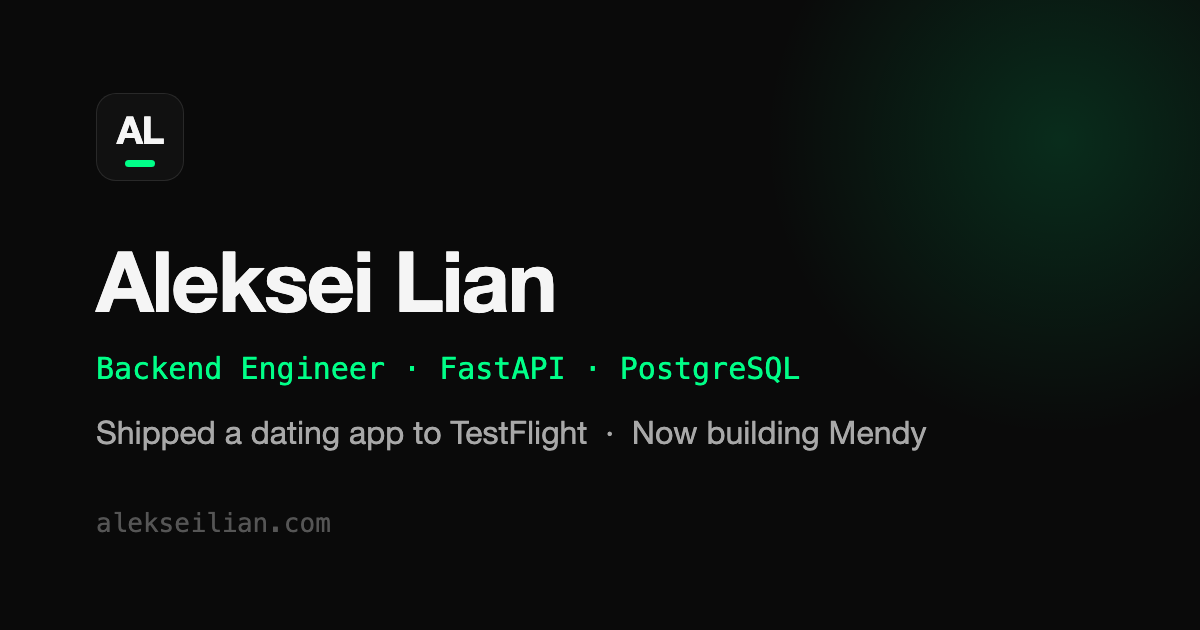
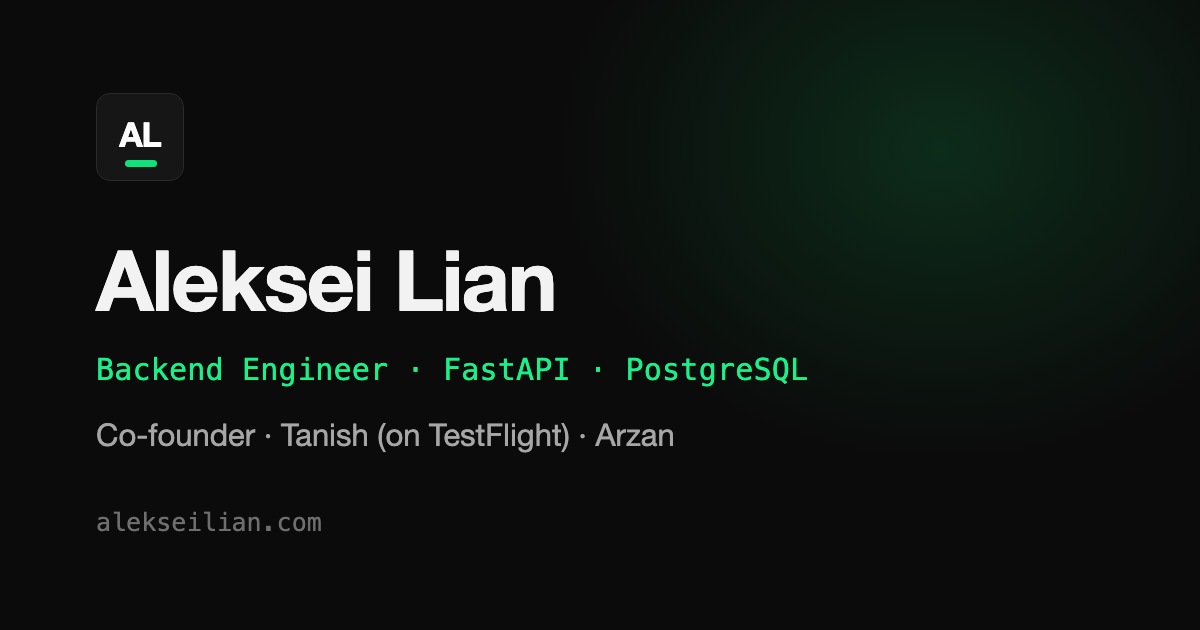
refresh link preview, tagline and meta; tone down tanish migration claim; update resume

diff --git a/public/tanish.html b/public/tanish.html
@@ -156,7 +156,7 @@
       <h2><span class="n">02</span>Architecture</h2>
       <div class="card stack">
         <b>API</b> — FastAPI, async SQLAlchemy 2.0, Pydantic v2; web + background worker<br />
-        <b>Data</b> — PostgreSQL, Alembic migrations gated before deploy; Redis for rate limiting &amp; caching<br />
+        <b>Data</b> — PostgreSQL with Alembic migrations applied before each release; Redis for rate limiting &amp; caching<br />
         <b>Realtime</b> — WebSocket chat with push-notification fallback<br />
         <b>Mobile</b> — React Native (Expo) iOS app, EAS builds to TestFlight<br />
         <b>Media</b> — S3-compatible object storage, presigned upload/download, moderation pipeline<br />
@@ -240,7 +240,7 @@
       <h2><span class="n">08</span>Discipline</h2>
       <ul>
         <li>2,300+ backend and 800+ frontend tests; CI runs both on every PR.</li>
-        <li>Migrations run in a gated release step before new code serves traffic.</li>
+        <li>Alembic migrations are applied before each release, and a pre-deploy hook is committed for Git-triggered deploys.</li>
         <li>Every substantial change went through security review before merge; auth changes always.</li>
       </ul>
 

diff --git a/index.html b/index.html
@@ -12,7 +12,7 @@
       rel="stylesheet"
     />
     <title>Aleksei Lian | Portfolio</title>
-    <meta name="description" content="Aleksei Lian — CS student and backend engineer. Co-founder of Tanish. Python, FastAPI, PostgreSQL, Docker, GCP." />
+    <meta name="description" content="Aleksei Lian — CS student and backend engineer. Co-founder and lead engineer of Tanish and Arzan. Python, FastAPI, PostgreSQL, TypeScript." />
     <meta property="og:title" content="Aleksei Lian | Portfolio" />
     <meta property="og:description" content="CS student and backend engineer. Co-founder of Tanish, a FastAPI/PostgreSQL dating app shipped to TestFlight, and Arzan, a cross-border marketplace." />
     <meta property="og:type" content="website" />

diff --git a/src/data/content.js b/src/data/content.js
@@ -6,7 +6,7 @@
 export const personal = {
   name: 'Aleksei Lian',
   role: 'Backend Engineer · CS Student @ York',
-  tagline: 'I build backend systems that make it to production: a dating app on TestFlight, a cross-border marketplace, and an LLM companion with long-term memory.',
+  tagline: 'I build backend systems and check that they are actually right: a dating app on TestFlight, a cross-border marketplace, and an LLM companion with long-term memory.',
   email: 'alekseilianv@gmail.com',
   github: 'https://github.com/alxlyn',
   linkedin: 'https://linkedin.com/in/aleksei-lian',
